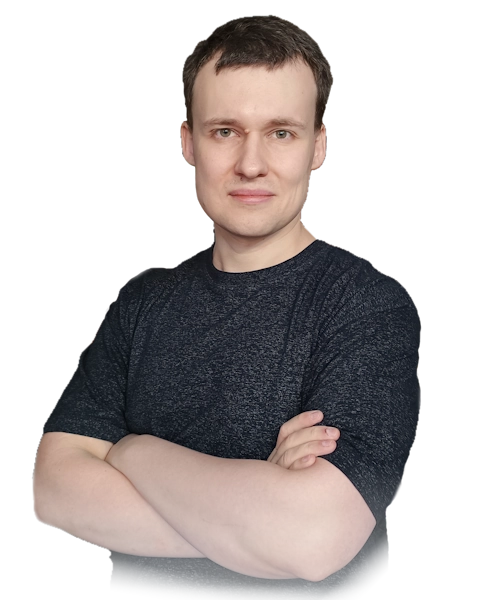
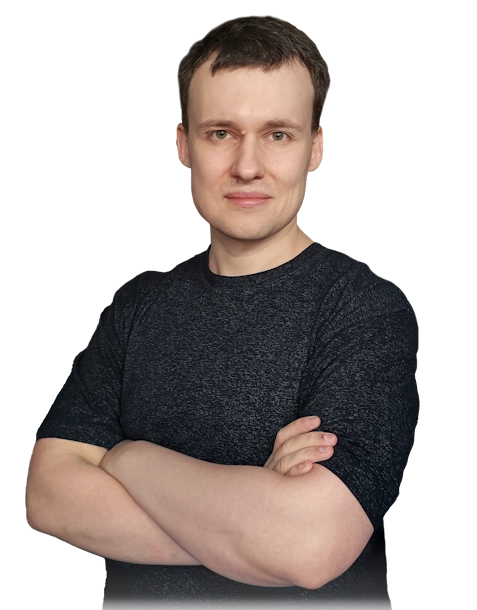
changed landing page hero photo and css styles adjusted

Changed region(s): [[0.0294, 0.0, 0.8805, 1.0], [0.2055, 0.36, 0.4696, 0.54], [0.4109, 0.33, 0.4403, 0.36]]

diff --git a/components/site/LandingPage/HeroAlt.tsx b/components/site/LandingPage/HeroAlt.tsx
@@ -128,7 +128,7 @@ export default function Hero({ article }: Props) {
             justifyContent: `space-between`,
             alignItems: { xs: "center", lg: "flex-start" },
             gap: "16px",
-            maxWidth: { xs: "89.5vw", sm: "inherit" },
+            maxWidth: { xs: "91vw", sm: "inherit" },
           }}
         >
           <div>
@@ -210,12 +210,17 @@ export default function Hero({ article }: Props) {
           sx={{
             gridRow: { xs: `span 1`, lg: `span 2` },
             gridColumn: { xs: `1`, lg: `2` },
+            textAlign: "center",
+            "& img": {
+              maxWidth: "96vw",
+              height: "auto",
+            },
           }}
         >
           <Image
             alt=""
-            width={478}
-            height={600}
+            width={477}
+            height={610}
             quality={89}
             src="/images/computer-master-landing-balashiha.webp"
           />
